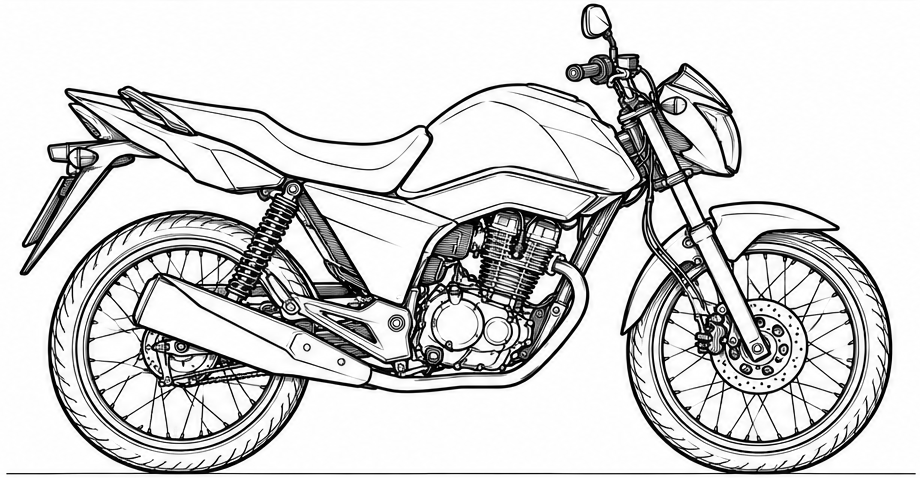
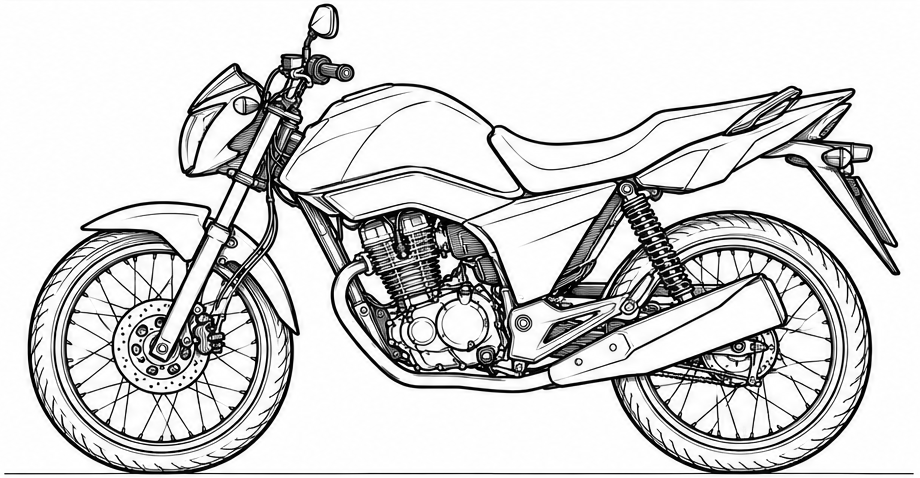
Mapa de avarias: rotulos de lado (direito/esquerdo), frente, traseira e topo; moto com lateral esquerda espelhada

diff --git a/app/src/main/assets/www/index.html b/app/src/main/assets/www/index.html
@@ -587,9 +587,18 @@ function carOne(ms){ // marcas da v1.0.18 (u:1): foto única do veículo
 /* vistas separadas, no formato da ficha: esquerda/direita/topo à esquerda; frente/traseira/legenda à direita */
 const VIEWS={le:{src:'v_le.png',w:.59},ld:{src:'v_ld.png',w:.59},tp:{src:'v_tp.png',w:.59},fr:{src:'v_fr.png',w:.39},tr:{src:'v_tr.png',w:.39}};
 const VIEWS_M={m1:{src:'v_m1.png',w:.694},m2:{src:'v_m2.png',w:.694},mf:{src:'v_mf.png',w:.286},mt:{src:'v_mt.png',w:.286}};
+/* Rótulos em cada vista: o lado do veículo (direito/esquerdo) fica sempre indicado.
+   Frente: o lado DIREITO do veículo aparece à esquerda da imagem; traseira: o lado ESQUERDO é que aparece à esquerda. */
+const LBL={le:{cap:'LADO ESQUERDO'},ld:{cap:'LADO DIREITO'},tp:{cap:'TOPO',top:'DIREITO',bottom:'ESQUERDO'},fr:{cap:'FRENTE',left:'DIR',right:'ESQ'},tr:{cap:'TRASEIRA',left:'ESQ',right:'DIR'},
+  m1:{cap:'LADO DIREITO'},m2:{cap:'LADO ESQUERDO'},mf:{cap:'FRENTE',left:'DIR',right:'ESQ'},mt:{cap:'TRASEIRA',left:'ESQ',right:'DIR'}};
+function labelsHTML(k){
+  const L=LBL[k]||{},chip=(pos,t,dark)=>`<span style="position:absolute;${pos};pointer-events:none;font:700 8px/1 Arial,sans-serif;letter-spacing:.2px;padding:2px 4px;border-radius:3px;white-space:nowrap;${dark?'background:#222;color:#fff':'background:#fff;color:#222;border:1px solid #222'}">${t}</span>`;
+  return (L.cap?chip('left:2px;top:2px',L.cap,true):'')+(L.left?chip('left:2px;bottom:2px','◀ '+L.left):'')+(L.right?chip('right:2px;bottom:2px',L.right+' ▶'):'')+(L.top?chip('left:2px;top:16px','▲ '+L.top):'')+(L.bottom?chip('left:2px;bottom:2px','▼ '+L.bottom):'');
+}
 function viewHTML(k,ms){
   const V=VIEWS[k]||VIEWS_M[k],mw=(5/(V.w*100)*100).toFixed(2); // marca com ~5% da largura total do mapa
-  return `<div class="vw" data-v="${k}" style="position:relative"><img src="${V.src}" alt="" style="display:block;width:100%;height:auto">${ms.filter(m=>m.v===k).map(m=>`<div style="position:absolute;left:${(m.x*100).toFixed(2)}%;top:${(m.y*100).toFixed(2)}%;width:${mw}%;padding-top:${mw}%;transform:translate(-50%,-50%)">${markInner(m.t)}</div>`).join('')}</div>`;
+  const fx=m=>k==='m2'&&!m.f?1-m.x:m.x; // m2 foi espelhada: marcas antigas (sem f) têm o x invertido
+  return `<div class="vw" data-v="${k}" style="position:relative"><img src="${V.src}" alt="" style="display:block;width:100%;height:auto">${labelsHTML(k)}${ms.filter(m=>m.v===k).map(m=>`<div style="position:absolute;left:${(fx(m)*100).toFixed(2)}%;top:${(m.y*100).toFixed(2)}%;width:${mw}%;padding-top:${mw}%;transform:translate(-50%,-50%)">${markInner(m.t)}</div>`).join('')}</div>`;
 }
 function legendBox(ms){
   const n=t=>ms.filter(x=>x.t===t).length,row=(i,l,c)=>`<div style="margin-top:3px"><b style="color:#e10600;display:inline-block;width:14px;font-size:13px">${i}</b>${l} <span style="color:#666">(${c})</span></div>`;
@@ -623,7 +632,7 @@ function dmgClear(){if(marks.length&&!confirm('Remover todas as marcas?'))return
     if(x<0||x>1||y<0||y>1)return;
     const hit=marks.findIndex(m=>m.v===k&&Math.hypot((m.x-x)*r.width,(m.y-y)*r.height)<18);
     if(hit>=0)marks.splice(hit,1);
-    else marks.push({u:2,v:k,x:+x.toFixed(4),y:+y.toFixed(4),t:($('input[name=dtool]:checked')||{}).value||'X'});
+    else marks.push({u:2,v:k,x:+x.toFixed(4),y:+y.toFixed(4),t:($('input[name=dtool]:checked')||{}).value||'X',...(k==='m2'?{f:1}:{})});
     renderDmg();
   });
 })();
